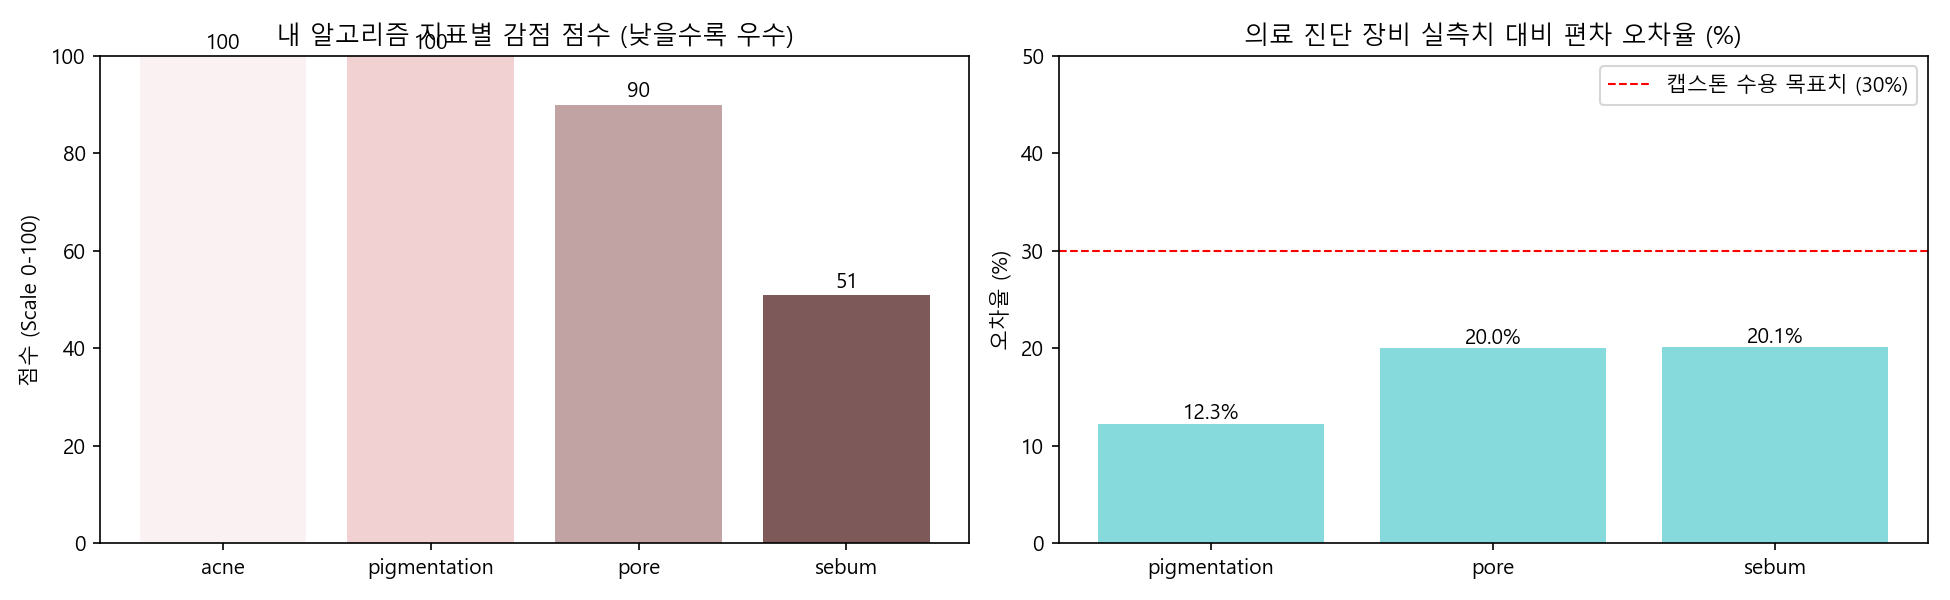
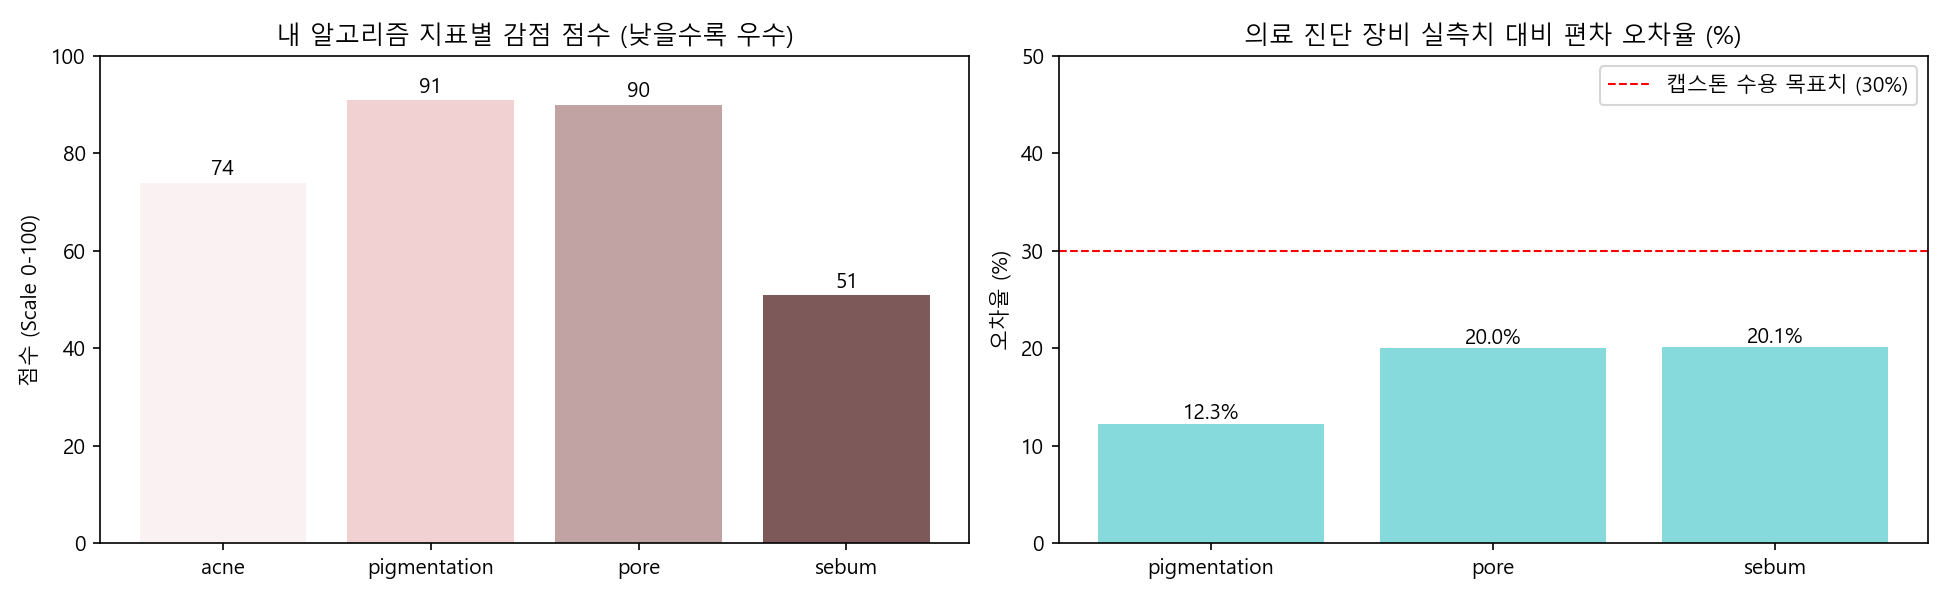
CV pipeline 그래프 문제 해결

Changed region(s): [[0.1538, 0.06, 0.2769, 0.18], [0.0923, 0.27, 0.1231, 0.3], [0.0923, 0.06, 0.1231, 0.09]]

diff --git a/test.py b/test.py
@@ -6,8 +6,8 @@ import os
 import glob
 from flask import Flask, request, jsonify
 from matplotlib import rc
-
-rc('font', family='Malgun Gothic')
+import matplotlib.font_manager as fm
+plt.rcParams['font.family'] = 'Malgun Gothic'
 plt.rcParams['axes.unicode_minus'] = False
 
 app = Flask(__name__)
@@ -97,8 +97,8 @@ def detect_sebum(roi_gray):
 
 # ── 4. 정규화 ────────────────────────────────────────────
 MAX_VALUES = {
-    "acne":         30,
-    "pigmentation": 200,
+    "acne":         50,
+    "pigmentation": 250,
     "pore":         27.0,
     "sebum":        0.6,
 }